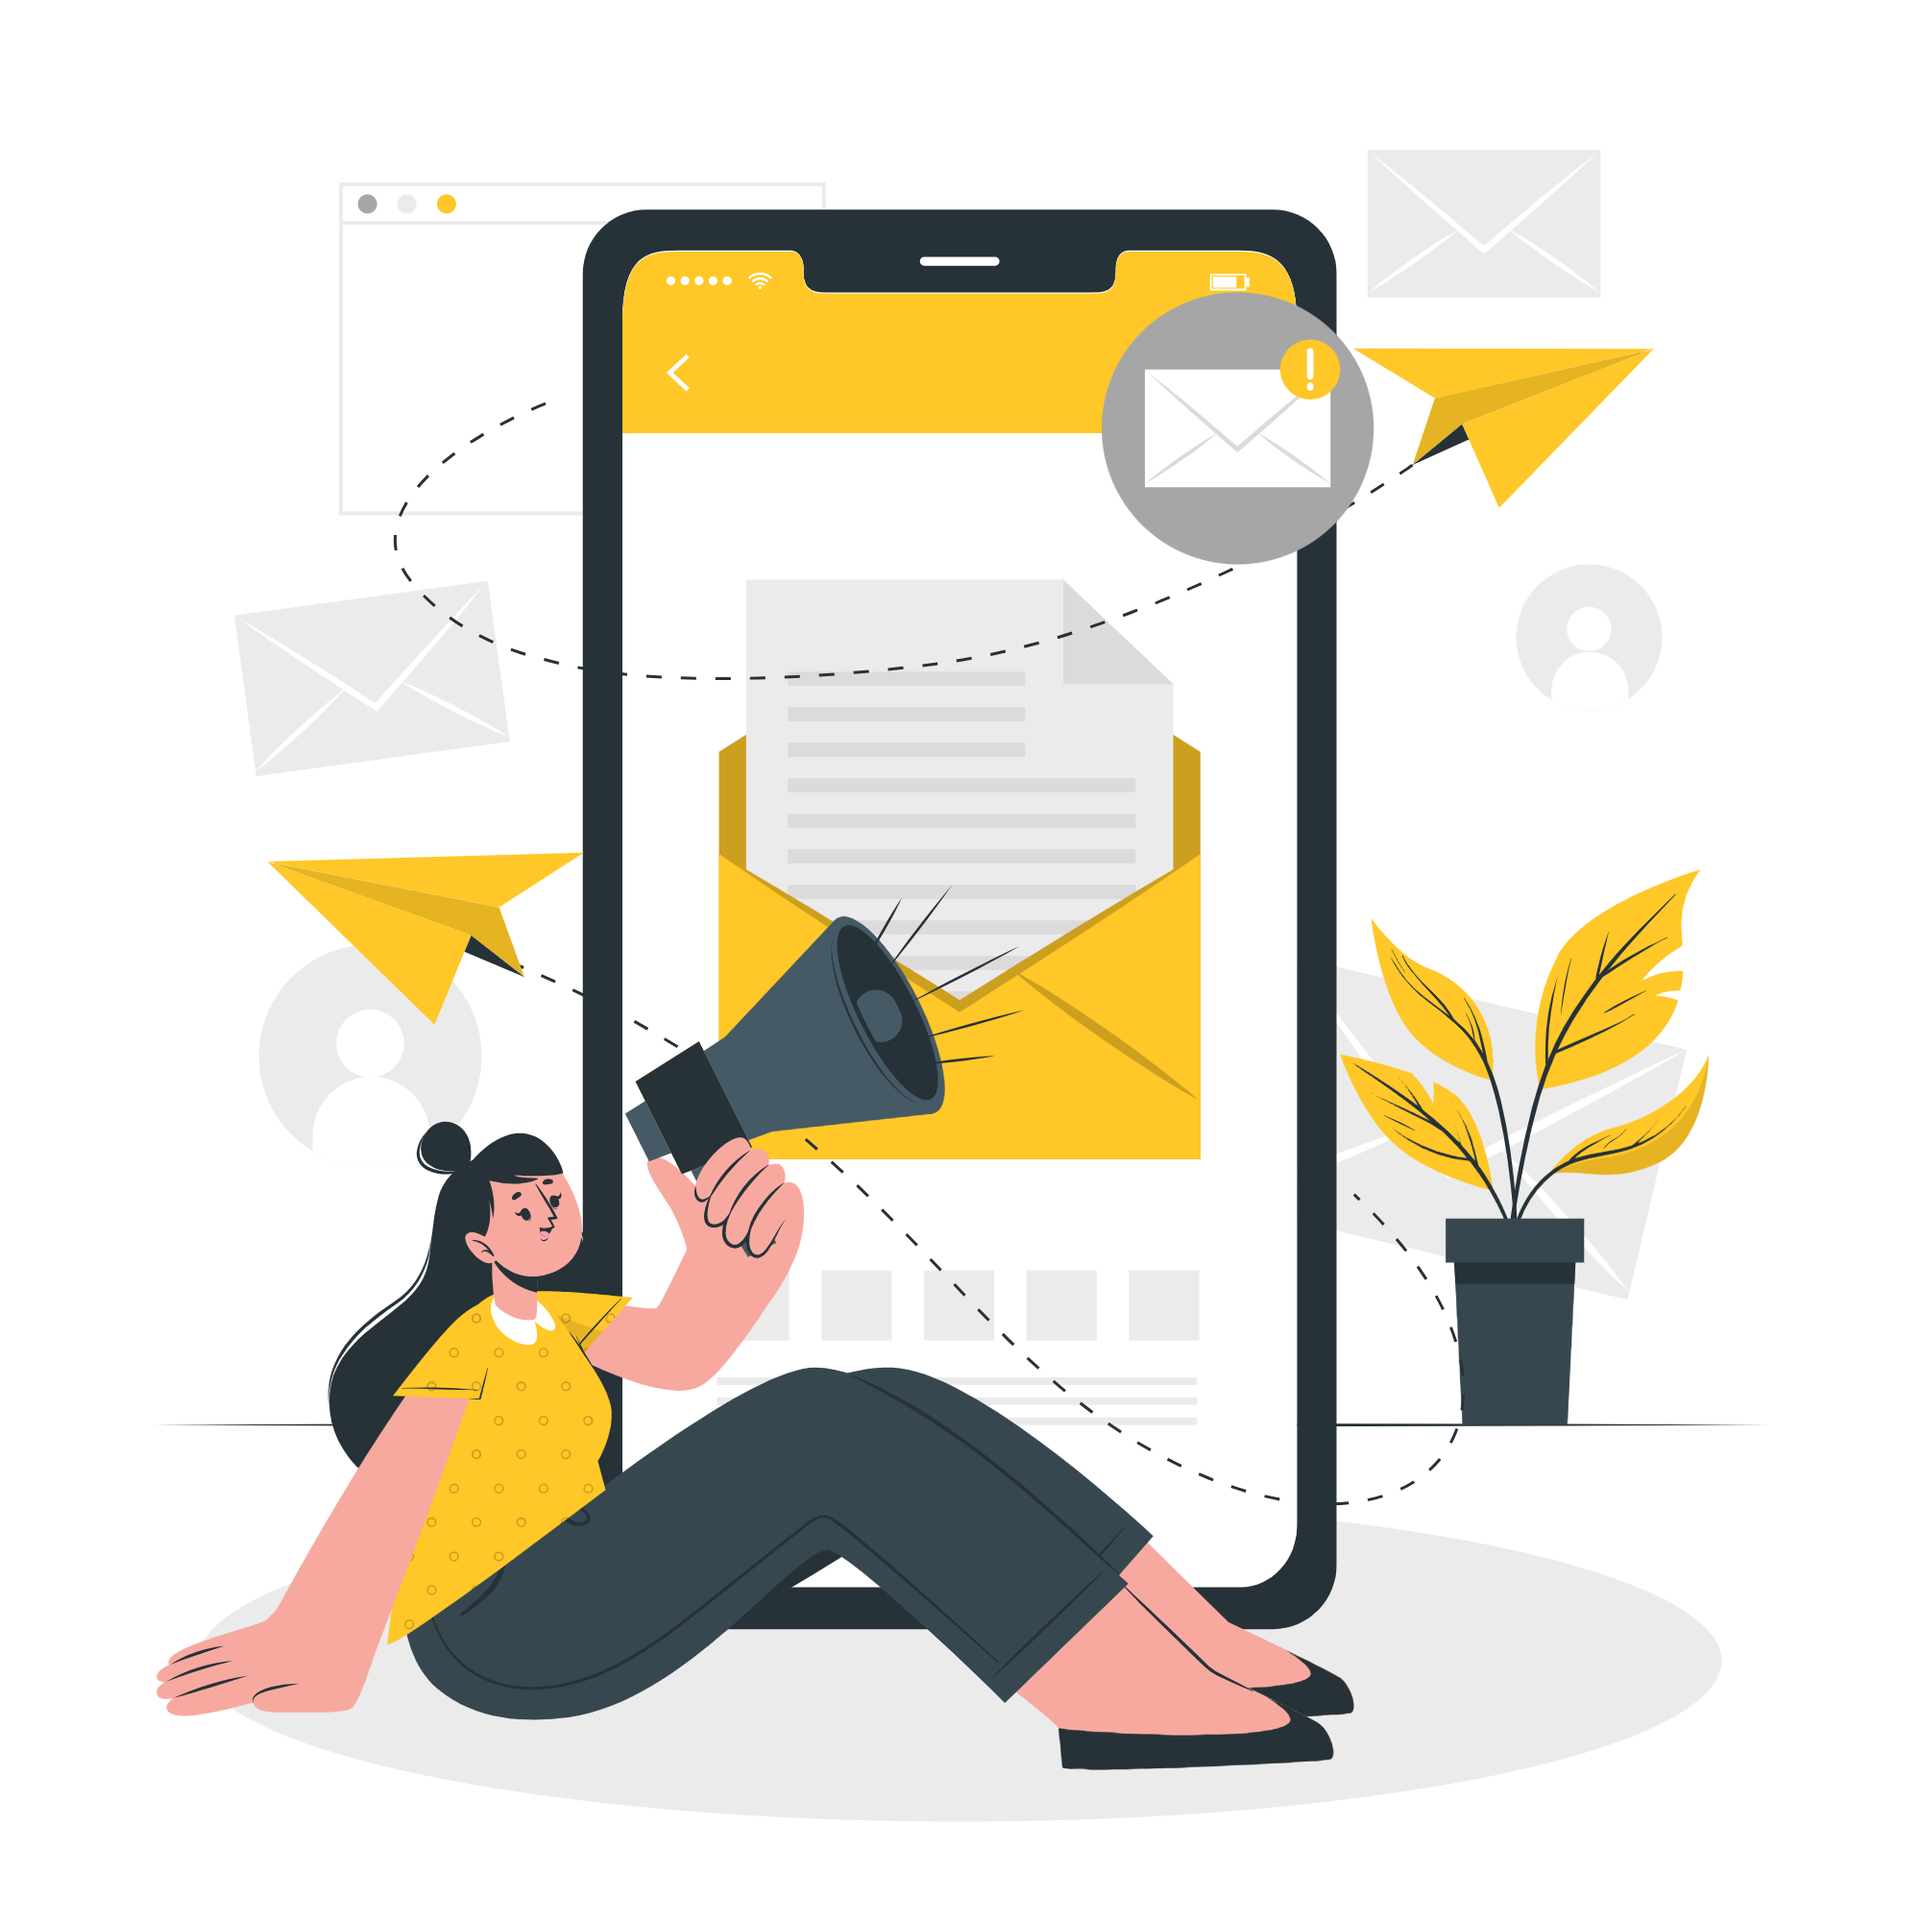
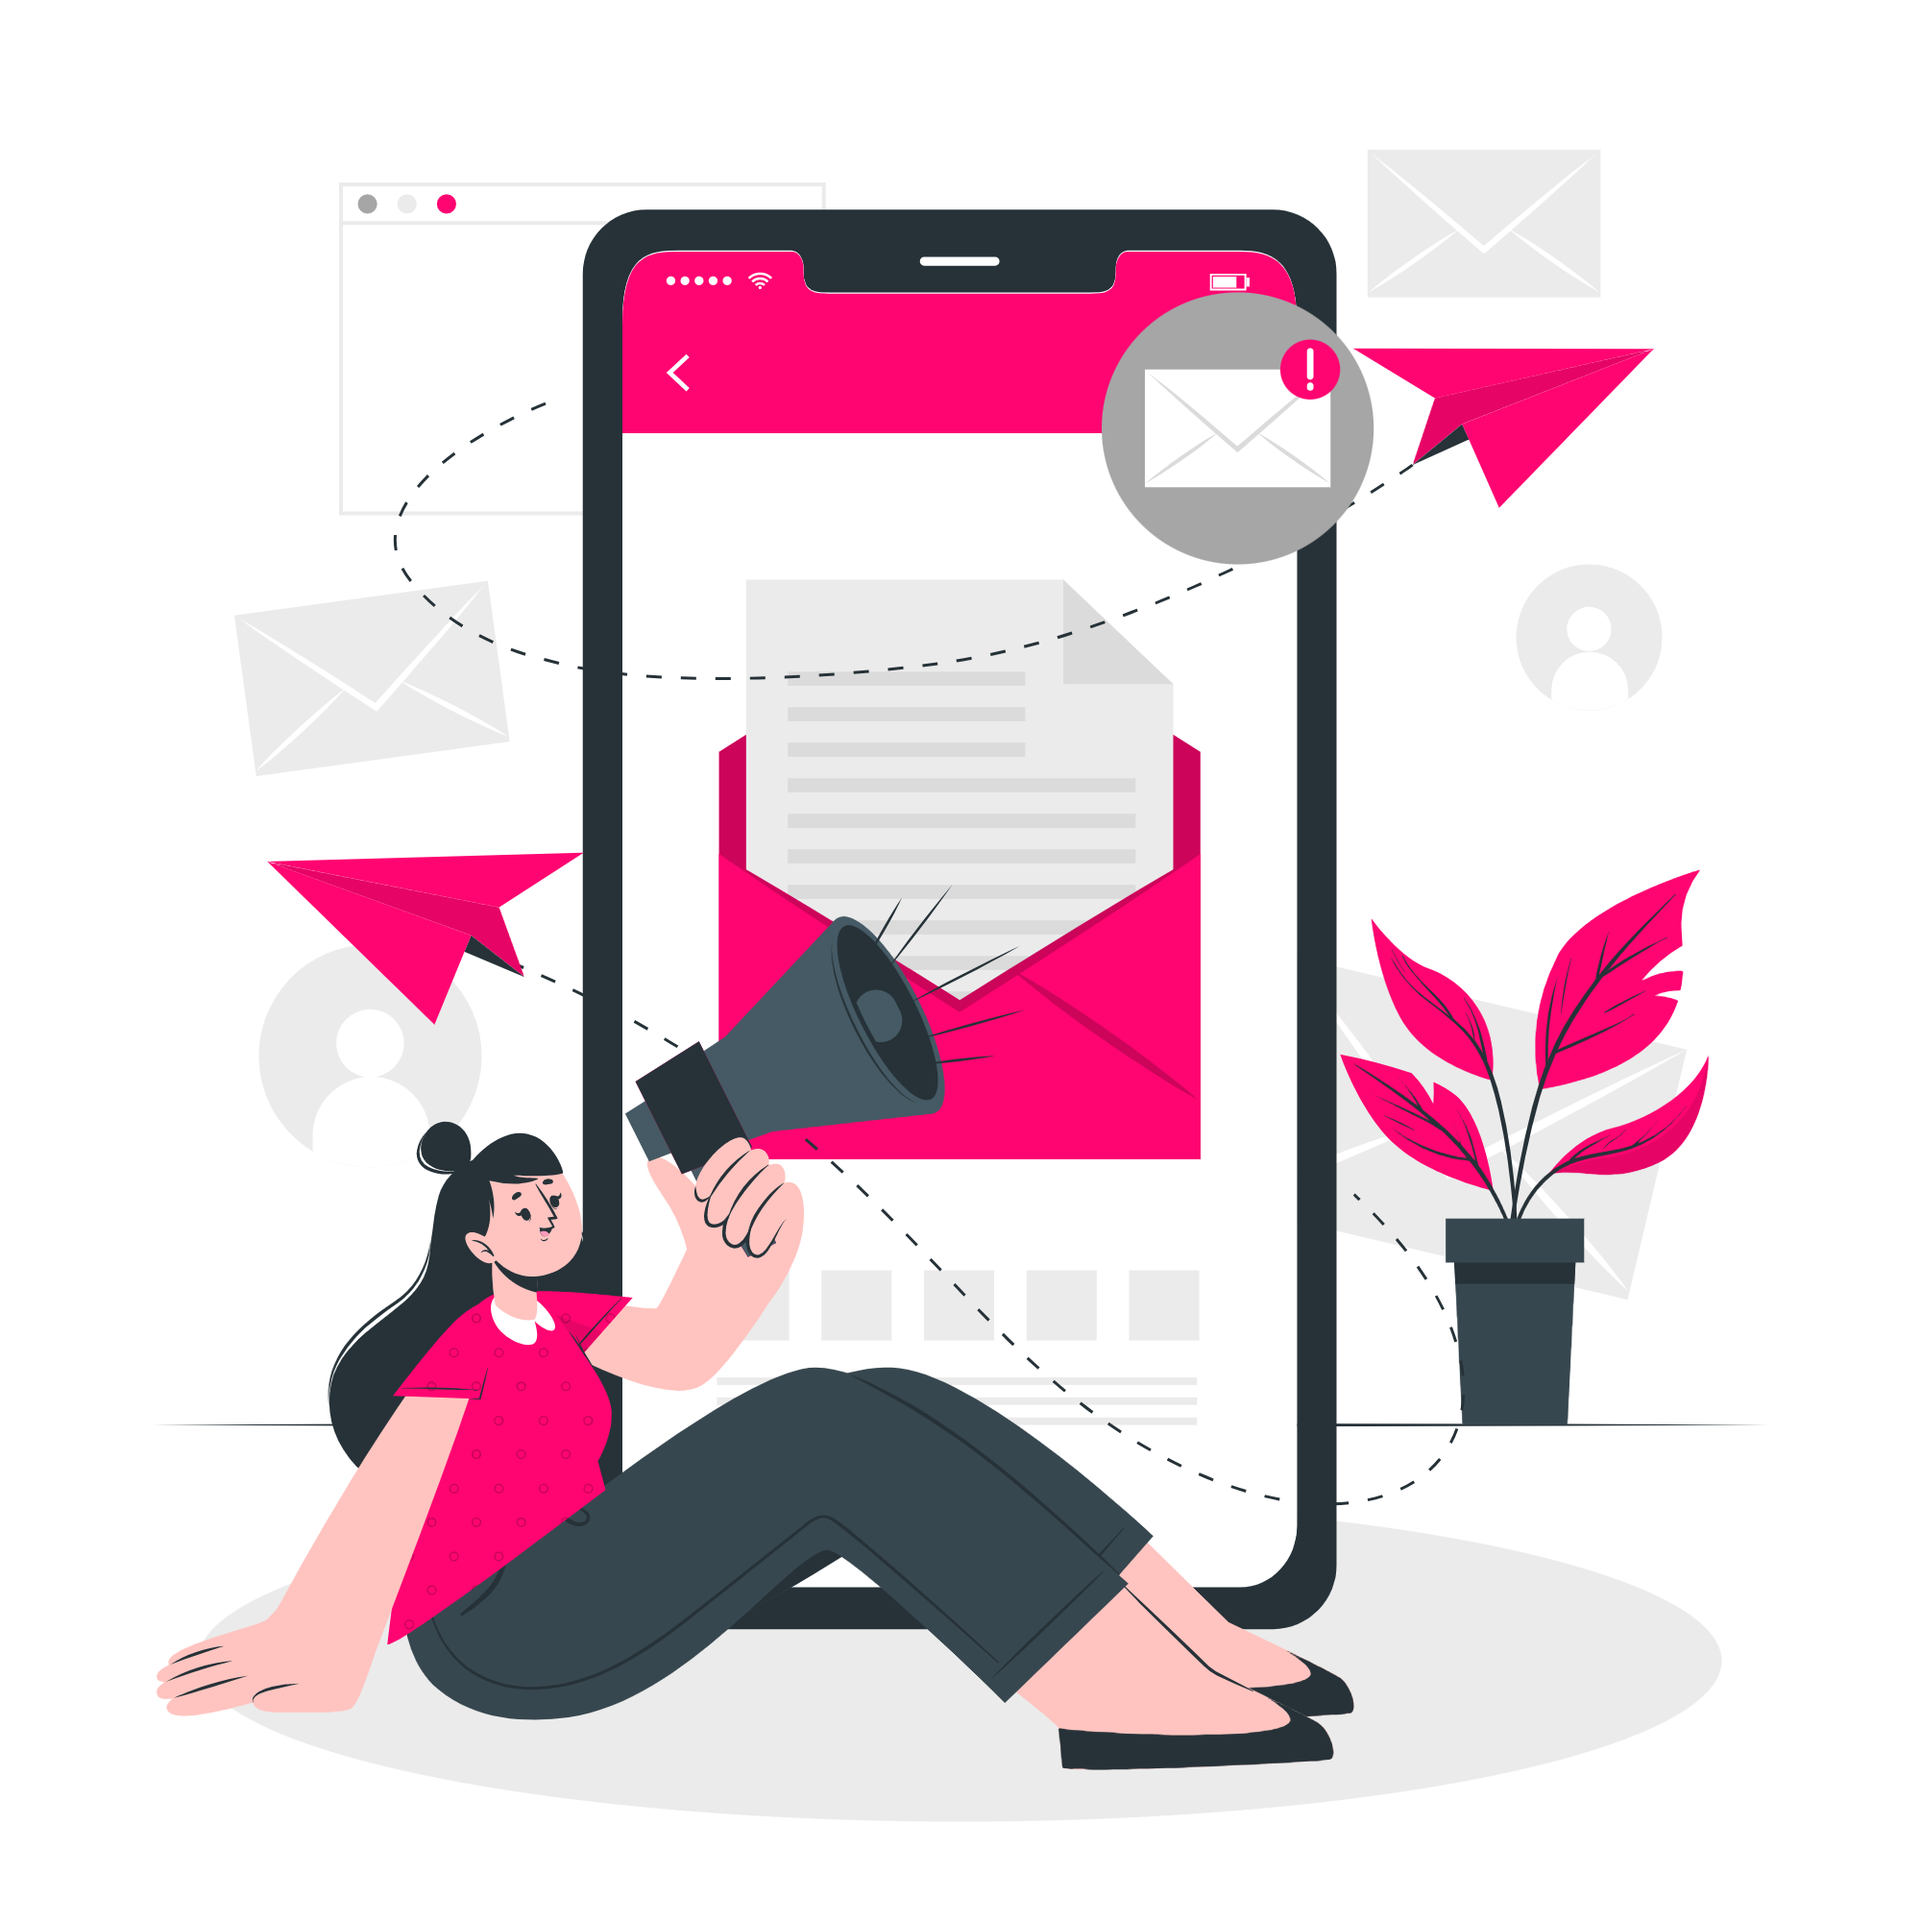
contact image color change

diff --git a/style.css b/style.css
@@ -3,6 +3,7 @@
 :root {
   --pink: #ff046f;
   --violet: #c63bfa;
+  --pink: rgb(255, 5, 113);
 }
 
 * {
@@ -393,9 +394,9 @@ header .fa-xmark {
   margin: 0 auto;
   padding-top: 4rem;
   flex-wrap: wrap;
-} 
+}
 
-.review .box-container .box  {
+.review .box-container .box {
   width: 28rem;
   padding-bottom: 1rem;
   text-align: center;
@@ -410,15 +411,15 @@ header .fa-xmark {
   object-fit: cover;
   border-radius: 50%;
   margin-top: -4rem;
-  border: .6rem solid var(--pink);
-  border-left: .6rem solid var(--violet);
-  border-bottom: .6rem solid var(--violet);
+  border: 0.6rem solid var(--pink);
+  border-left: 0.6rem solid var(--violet);
+  border-bottom: 0.6rem solid var(--violet);
 }
 
 .review .box-container .box h3 {
   font-size: 2rem;
   color: var(--pink);
-  padding: 0 .5rem;
+  padding: 0 0.5rem;
 }
 
 .review .box-container .box p {
@@ -430,13 +431,13 @@ header .fa-xmark {
 .review .box-container .box i {
   font-size: 1.6rem;
   color: var(--violet);
-  padding: 1.3rem .1rem;
+  padding: 1.3rem 0.1rem;
 }
 
 /* contact */
 
 .contact {
-  background: #333; 
+  background: #333;
 }
 
 .contact .row {
@@ -446,7 +447,7 @@ header .fa-xmark {
   padding: 5rem 0;
 }
 
-.contact .row .image img{
+.contact .row .image img {
   width: 50vw;
   height: 70vh;
 }
@@ -456,7 +457,8 @@ header .fa-xmark {
   padding-right: 6rem;
 }
 
-.contact .row .form-container input, textarea {
+.contact .row .form-container input,
+textarea {
   height: 4rem;
   width: 100%;
   background: #fff;
@@ -466,14 +468,15 @@ header .fa-xmark {
   margin: 1rem 0;
   color: var(--pink);
   font-size: 1.7rem;
-  transition: .2s linear;
+  transition: 0.2s linear;
 }
 
-.contact .row .form-container input:focus, textarea:focus {
+.contact .row .form-container input:focus,
+textarea:focus {
   border: 2rem solid var(--pink);
 }
 
-.contact .row .form-container textarea{
+.contact .row .form-container textarea {
   height: 20rem;
   border-radius: 1rem;
   padding: 1rem;
@@ -485,22 +488,22 @@ header .fa-xmark {
   background: var(--pink);
   color: #fff;
   cursor: pointer;
-  transition: .2s;
-} 
+  transition: 0.2s;
+}
 
 .contact .row .form-container input[type="submit"] {
   width: 17rem;
   background: var(--pink);
   color: #fff;
   cursor: pointer;
-  transition: .2s;
-} 
+  transition: 0.2s;
+}
 
 .contact .row .form-container input[type="submit"]:hover {
   background: none;
   color: var(--pink);
-  border: .2rem solid var(--pink);
-} 
+  border: 0.2rem solid var(--pink);
+}
 
 /* footer */
 .footer {
@@ -516,10 +519,10 @@ header .fa-xmark {
   width: 4.5rem;
   line-height: 4.2rem;
   border-radius: 50%;
-  border: .2rem solid var(--violet);
+  border: 0.2rem solid var(--violet);
   font-size: 2rem;
-  margin: 0 .1rem;
-  transition: .2s linear;
+  margin: 0 0.1rem;
+  transition: 0.2s linear;
 }
 .footer .icons i:hover {
   color: #fff;
@@ -529,7 +532,7 @@ header .fa-xmark {
 
 .footer .credit {
   font-size: 2rem;
-  border-top: .1rem solid #999;
+  border-top: 0.1rem solid #999;
   margin: 0 auto;
   margin-bottom: 2rem;
   color: #666;
@@ -540,11 +543,6 @@ header .fa-xmark {
 .footer .credit span {
   color: var(--pink);
 }
-
-
-
-
-
 
 /* media queries */
 @media (max-width: 768px) {
@@ -628,5 +626,4 @@ header .fa-xmark {
     width: 90%;
     padding: 0;
   }
-
 }

diff --git a/index.html b/index.html
@@ -218,9 +218,12 @@
 
       <div class="box-container">
         <div class="box">
-          <img src="./images/student1.jpg" alt="">
+          <img src="./images/student1.jpg" alt="" />
           <h3>Jhon love</h3>
-          <p>Lorem ipsum dolor, sit amet consectetur adipisicing elit. Soluta, quaerat.</p>
+          <p>
+            Lorem ipsum dolor, sit amet consectetur adipisicing elit. Soluta,
+            quaerat.
+          </p>
           <div class="stars">
             <i class="fa-solid fa-star"></i>
             <i class="fa-solid fa-star"></i>
@@ -230,9 +233,12 @@
           </div>
         </div>
         <div class="box">
-          <img src="./images/student2.jpg" alt="">
+          <img src="./images/student2.jpg" alt="" />
           <h3>Jhon love</h3>
-          <p>Lorem ipsum dolor, sit amet consectetur adipisicing elit. Soluta, quaerat.</p>
+          <p>
+            Lorem ipsum dolor, sit amet consectetur adipisicing elit. Soluta,
+            quaerat.
+          </p>
           <div class="stars">
             <i class="fa-solid fa-star"></i>
             <i class="fa-solid fa-star"></i>
@@ -241,9 +247,12 @@
           </div>
         </div>
         <div class="box">
-          <img src="./images/student3.jpg" alt="">
+          <img src="./images/student3.jpg" alt="" />
           <h3>Jhon love</h3>
-          <p>Lorem ipsum dolor, sit amet consectetur adipisicing elit. Soluta, quaerat.</p>
+          <p>
+            Lorem ipsum dolor, sit amet consectetur adipisicing elit. Soluta,
+            quaerat.
+          </p>
           <div class="stars">
             <i class="fa-solid fa-star"></i>
             <i class="fa-solid fa-star"></i>
@@ -263,16 +272,21 @@
 
       <div class="row">
         <div class="image">
-          <img src="./images/contact-img.png" alt="">
+          <img src="./images/contact-img.png" alt="" />
         </div>
         <div class="form-container">
           <form action="">
-            <input type="text" placeholder="full name">
-            <input type="email" placeholder="enter your email">
-            <input type="number" placeholder="phone">
-            <textarea name="" id="" cols="30" rows="10" placeholder="message"></textarea>
-            <input type="submit" value="message">
-            
+            <input type="text" placeholder="full name" />
+            <input type="email" placeholder="enter your email" />
+            <input type="number" placeholder="phone" />
+            <textarea
+              name=""
+              id=""
+              cols="30"
+              rows="10"
+              placeholder="message"
+            ></textarea>
+            <input type="submit" value="message" />
           </form>
         </div>
       </div>
@@ -289,10 +303,11 @@
         <a href=""><i class="fa-brands fa-pinterest"></i></a>
       </div>
 
-      <div class="credit">created by <span>Md ashik mahmud</span> | all rights reserved.</div>
+      <div class="credit">
+        created by <span>Md ashik mahmud</span> | all rights reserved.
+      </div>
     </section>
     <!-- footer section end -->
-
 
     <!-- custom js file -->
     <script src="./app.js"></script>
